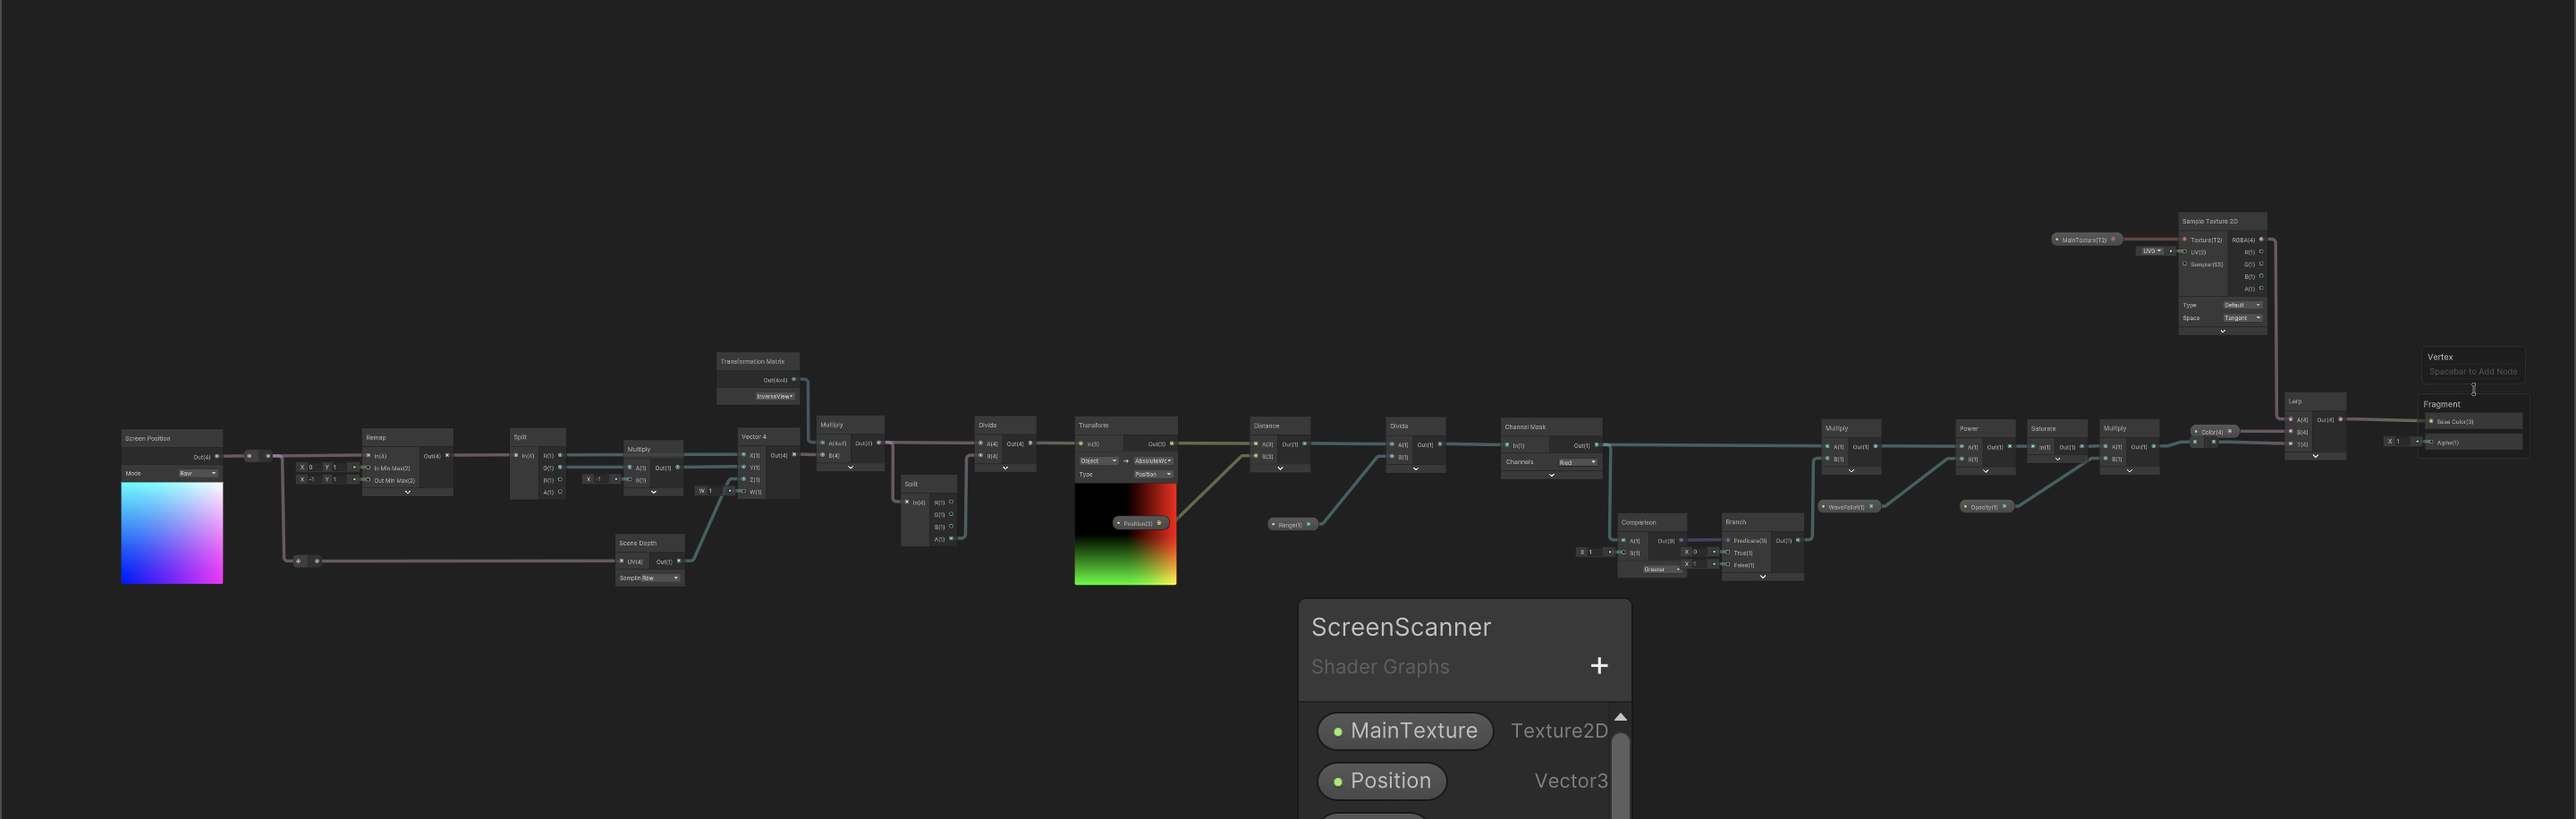
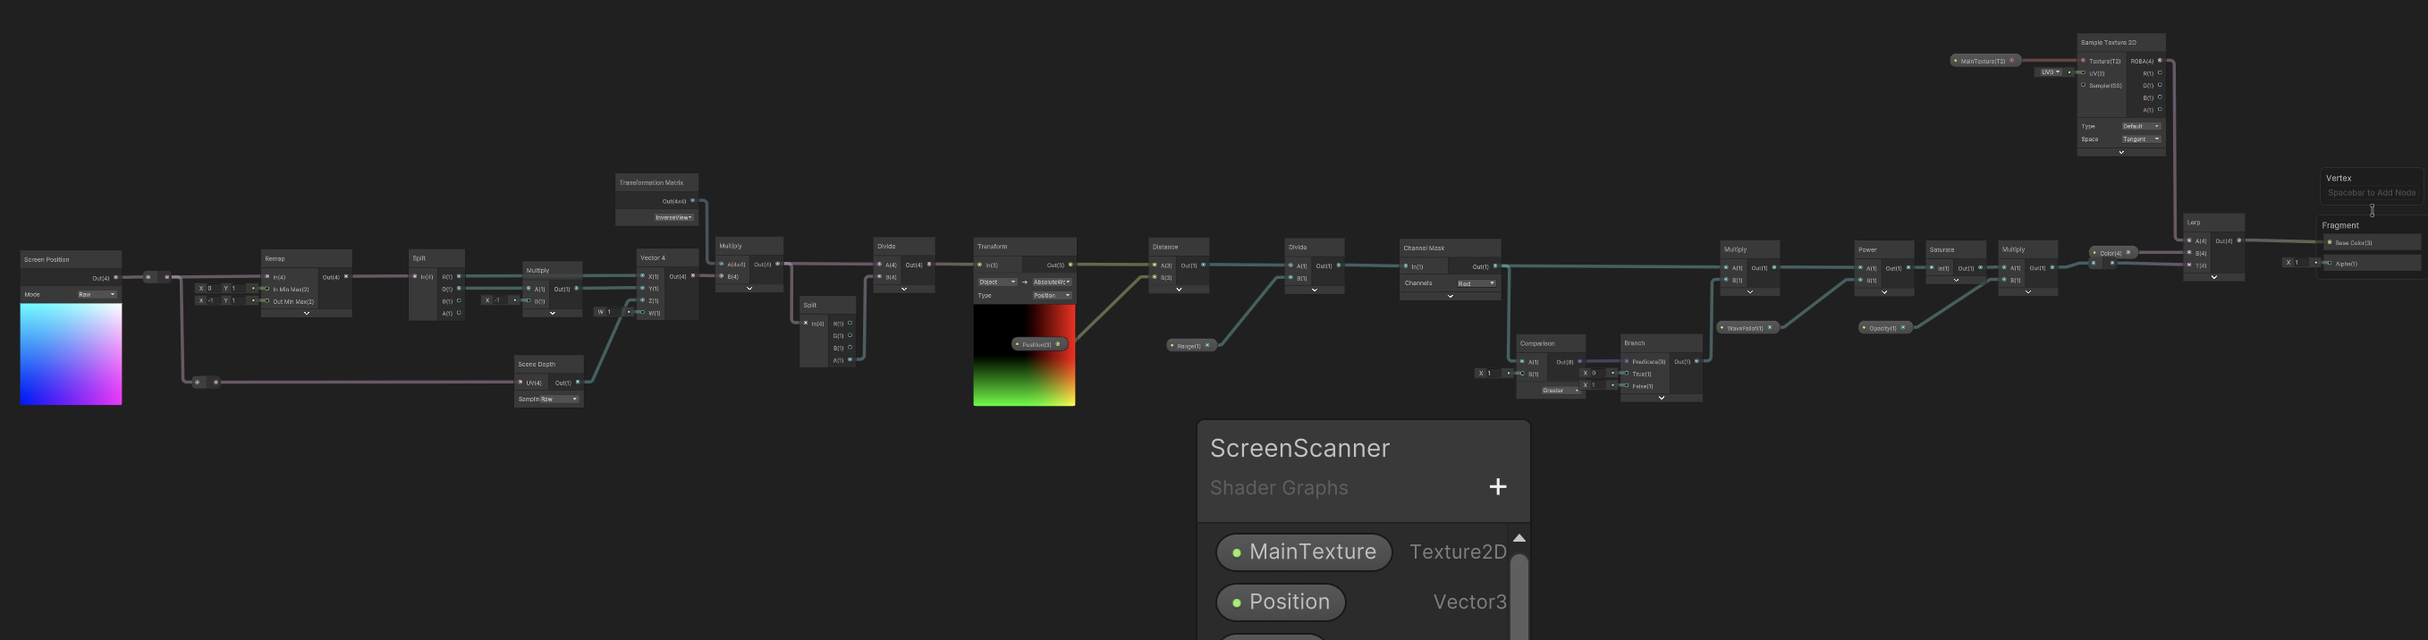
umweltl

Changed region(s): [[0.0, 0.0307, 0.9591, 1.0], [0.9591, 0.2765, 1.0, 0.3073]]

diff --git a/umwelt.html b/umwelt.html
@@ -60,6 +60,13 @@
           </div>
         </div>
         <div class="slide">
+          <div class="video-wrapper">
+            <iframe src="https://www.youtube.com/embed/xtMnoagabZA" frameborder="0"
+              allow="accelerometer; autoplay; clipboard-write; encrypted-media; gyroscope; picture-in-picture; web-share"
+              allowfullscreen></iframe>
+          </div>
+        </div>
+        <div class="slide">
           <img src="images/umwelt/umwelt_08.png" alt="">
         </div>
 
@@ -141,6 +148,11 @@
       found another bat model online to make use of wings. In blender,where I merged a bat model's wings with to the
       mouse. I made the ears of the mouse bigger. However this proccess caused the existing animation in the wings to be
       lost. Therefore I reanimated the wings using rigs.</p>
+
+
+    <h4>The Bat Scene</h4>
+
+    <h5>Character Model and Animation</h5>
     <div class="slider">
       <div class="slider-track">
         <div class="slide">
@@ -152,79 +164,134 @@
               allow="accelerometer; autoplay; clipboard-write; encrypted-media; gyroscope; picture-in-picture; web-share"
               allowfullscreen></iframe>
           </div>
-          <div class="slide">
-            <div class="video-wrapper">
-              <iframe src="https://www.youtube.com/embed/Ieh5T66rrcA" frameborder="0"
-                allow="accelerometer; autoplay; clipboard-write; encrypted-media; gyroscope; picture-in-picture; web-share"
-                allowfullscreen></iframe>
-            </div>
+        </div>
+        <div class="slide">
+          <div class="video-wrapper">
+            <iframe src="https://www.youtube.com/embed/Ieh5T66rrcA" frameborder="0"
+              allow="accelerometer; autoplay; clipboard-write; encrypted-media; gyroscope; picture-in-picture; web-share"
+              allowfullscreen></iframe>
           </div>
-          <button class="slider-btn prev" onclick="moveSlide(this, -1)">&#8249;</button>
-          <button class="slider-btn next" onclick="moveSlide(this, 1)">&#8250;</button>
         </div>
+      </div>
+      <button class="slider-btn prev" onclick="moveSlide(this, -1)">&#8249;</button>
+      <button class="slider-btn next" onclick="moveSlide(this, 1)">&#8250;</button>
+    </div>
 
-        <div class="slider-dots">
-          <span class="dot active"></span>
-          <span class="dot"></span>
-          <span class="dot"></span>
+    <div class="slider-dots">
+      <span class="dot active"></span>
+      <span class="dot"></span>
+      <span class="dot"></span>
+    </div>
+
+
+    <h5>Terrain Model</h5>
+
+    <img src="images/umwelt/umwelt_03.png" alt="Umwelt_03">
+
+    <h5>Shader</h5>
+
+    <img src="images/umwelt/umwelt_03.png" alt="Umwelt_05">
+
+    <div class="slider">
+      <div class="slider-track">
+        <div class="slide">
+          <div class="video-wrapper">
+            <iframe src="https://www.youtube.com/embed/NWOzRGAL2_A" frameborder="0"
+              allow="accelerometer; autoplay; clipboard-write; encrypted-media; gyroscope; picture-in-picture; web-share"
+              allowfullscreen></iframe>
+          </div>
         </div>
-        <h4>The Bat Scene</h4>
-        <h5>Character Model and Animation</h5>
-        <h5>Character Model and Animation</h5>
-        <h5>Character Model and Animation</h5>
-        <h5>Character Model and Animation</h5>
+        <div class="slide">
+          <div class="video-wrapper">
+            <iframe src="https://www.youtube.com/embed/wjnaRwvJxHc" frameborder="0"
+              allow="accelerometer; autoplay; clipboard-write; encrypted-media; gyroscope; picture-in-picture; web-share"
+              allowfullscreen></iframe>
+          </div>
+        </div>
+        <div class="slide">
+          <img src="images/umwelt/umwelt_15.jpg" alt="">
+        </div>
+        <div class="slide">
+          <img src="images/umwelt/umwelt_16.jpg" alt="">
+        </div>
+      </div>
+      <button class="slider-btn prev" onclick="moveSlide(this, -1)">&#8249;</button>
+      <button class="slider-btn next" onclick="moveSlide(this, 1)">&#8250;</button>
+    </div>
 
-        <h3>The Digital Cube</h3>
+    <div class="slider-dots">
+      <span class="dot active"></span>
+      <span class="dot"></span>
+      <span class="dot"></span>
+      <span class="dot"></span>
+    </div>
 
-        <img src="images/umwelt/umwelt_01.png" alt="Umwelt_01">
-        <h4>Merging Each Scene on Digital Cube</h4>
-        <img src="images/umwelt/umwelt_02.png" alt="Umwelt_02">
-        <h3>The Physical Cube</h3>
-        <img src="images/umwelt/umwelt_06.png" alt="Umwelt_06">
+    <h5>Infinite Runner Game Mechanics</h5>
+    <h5>Player Avatar</h5>
+    <h5>Rewards</h5>
+    <h5>Obstacles</h5>
 
-        <h3>The Rotation Mechanism (AutoEncoder)</h3>
 
-        <div class="slider">
-          <div class="slider-track">
-            <div class="slide">
-              <div class="video-wrapper">
-                <iframe src="https://www.youtube.com/embed/MaDrbvwd-iA" frameborder="0"
-                  allow="accelerometer; autoplay; clipboard-write; encrypted-media; gyroscope; picture-in-picture; web-share"
-                  allowfullscreen></iframe>
-              </div>
-              <div class="slide">
-                <div class="video-wrapper">
-                  <iframe src="https://www.youtube.com/embed/0R4FrwGsCws" frameborder="0"
-                    allow="accelerometer; autoplay; clipboard-write; encrypted-media; gyroscope; picture-in-picture; web-share"
-                    allowfullscreen></iframe>
-                </div>
-                <div class="slide">
-                  <div class="video-wrapper">
-                    <iframe src="https://www.youtube.com/embed/jR4LDkvQ83g" frameborder="0"
-                      allow="accelerometer; autoplay; clipboard-write; encrypted-media; gyroscope; picture-in-picture; web-share"
-                      allowfullscreen></iframe>
-                  </div>
-                </div>
-                <div class="slide">
-                  <img src="images/umwelt/umwelt_15.jpg" alt="">
-                </div>
-                 <div class="slide">
-                  <img src="images/umwelt/umwelt_16.jpg" alt="">
-                </div>
+    <h3>The Digital Cube</h3>
 
-              </div>
-              <button class="slider-btn prev" onclick="moveSlide(this, -1)">&#8249;</button>
-              <button class="slider-btn next" onclick="moveSlide(this, 1)">&#8250;</button>
-            </div>
+    <img src="images/umwelt/umwelt_01.png" alt="Umwelt_01">
+    <h4>Merging Each Scene on Digital Cube</h4>
+    <img src="images/umwelt/umwelt_02.png" alt="Umwelt_02">
+    <h3>The Physical Cube</h3>
+    <img src="images/umwelt/umwelt_06.png" alt="Umwelt_06">
 
-            <div class="slider-dots">
-              <span class="dot active"></span>
-              <span class="dot"></span>
-              <span class="dot"></span>
-              <span class="dot"></span>
-            </div>
+    <h3>The Rotation Mechanism (AutoEncoder)</h3>
 
-            <h3>Projection Mapping</h3>
+    <div class="slider">
+      <div class="slider-track">
+        <div class="slide">
+          <div class="video-wrapper">
+            <iframe src="https://www.youtube.com/embed/MaDrbvwd-iA" frameborder="0"
+              allow="accelerometer; autoplay; clipboard-write; encrypted-media; gyroscope; picture-in-picture; web-share"
+              allowfullscreen></iframe>
+          </div>
+        </div>
+        <div class="slide">
+          <div class="video-wrapper">
+            <iframe src="https://www.youtube.com/embed/0R4FrwGsCws" frameborder="0"
+              allow="accelerometer; autoplay; clipboard-write; encrypted-media; gyroscope; picture-in-picture; web-share"
+              allowfullscreen></iframe>
+          </div>
+        </div>
+        <div class="slide">
+          <div class="video-wrapper">
+            <iframe src="https://www.youtube.com/embed/jR4LDkvQ83g" frameborder="0"
+              allow="accelerometer; autoplay; clipboard-write; encrypted-media; gyroscope; picture-in-picture; web-share"
+              allowfullscreen></iframe>
+          </div>
+        </div>
+        <div class="slide">
+          <img src="images/umwelt/umwelt_15.jpg" alt="">
+        </div>
+        <div class="slide">
+          <img src="images/umwelt/umwelt_16.jpg" alt="">
+        </div>
+      </div>
+      <button class="slider-btn prev" onclick="moveSlide(this, -1)">&#8249;</button>
+      <button class="slider-btn next" onclick="moveSlide(this, 1)">&#8250;</button>
+    </div>
+
+    <div class="slider-dots">
+      <span class="dot active"></span>
+      <span class="dot"></span>
+      <span class="dot"></span>
+      <span class="dot"></span>
+      <span class="dot"></span>
+    </div>
+
+    <h3>Projection Mapping</h3>
+
+    <div class="video-wrapper">
+      <iframe src="https://www.youtube.com/embed/7vQSnLTvuS4" frameborder="0"
+        allow="accelerometer; autoplay; clipboard-write; encrypted-media; gyroscope; picture-in-picture; web-share"
+        allowfullscreen></iframe>
+    </div>
+
   </main>
 
   <footer class="footer">
